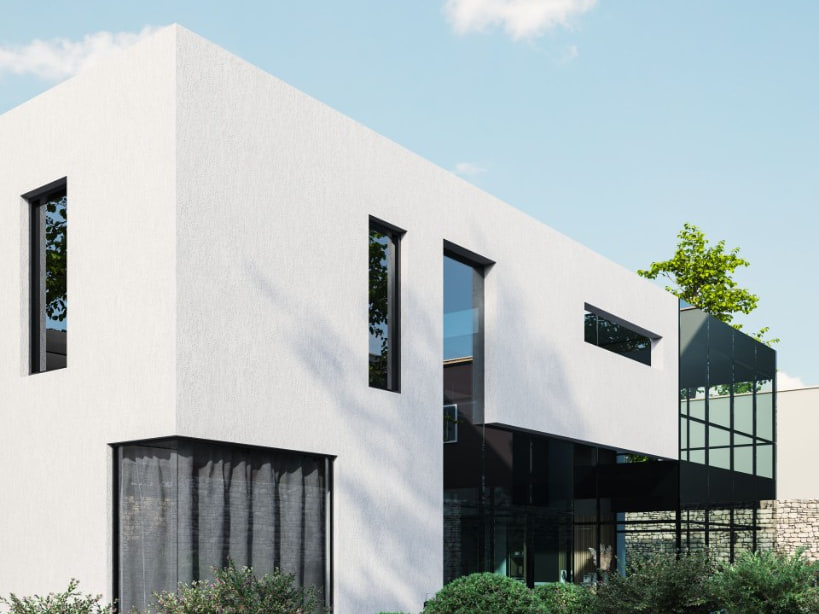
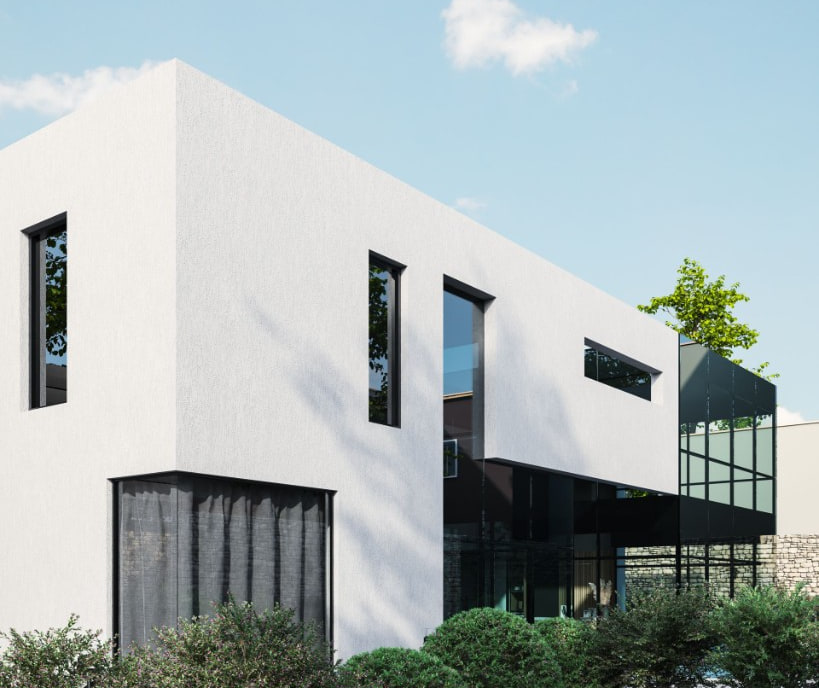
Update homepage hero

diff --git a/css/styles.css b/css/styles.css
@@ -280,11 +280,11 @@ strong{color:var(--ink);font-weight:600;}
     margin-right:calc(14px - var(--sp-5));
   }
   .hero-photo{
-    aspect-ratio:4/3;
+    aspect-ratio:6/5;
     border-radius:14px;
     box-shadow:0 10px 36px rgba(20,21,15,.08);
   }
-  .hero-photo img{object-position:52% 46%;}
+  .hero-photo img{object-position:52% 44%;}
   .hero-stage .demo-card{
     position:relative;
     left:auto;right:auto;bottom:auto;
@@ -327,7 +327,7 @@ strong{color:var(--ink);font-weight:600;}
     gap:1.2rem;
   }
   .hero-photo{
-    aspect-ratio:5/4;
+    aspect-ratio:6/5;
     border-radius:12px;
   }
   .hero-stage .demo-card{
